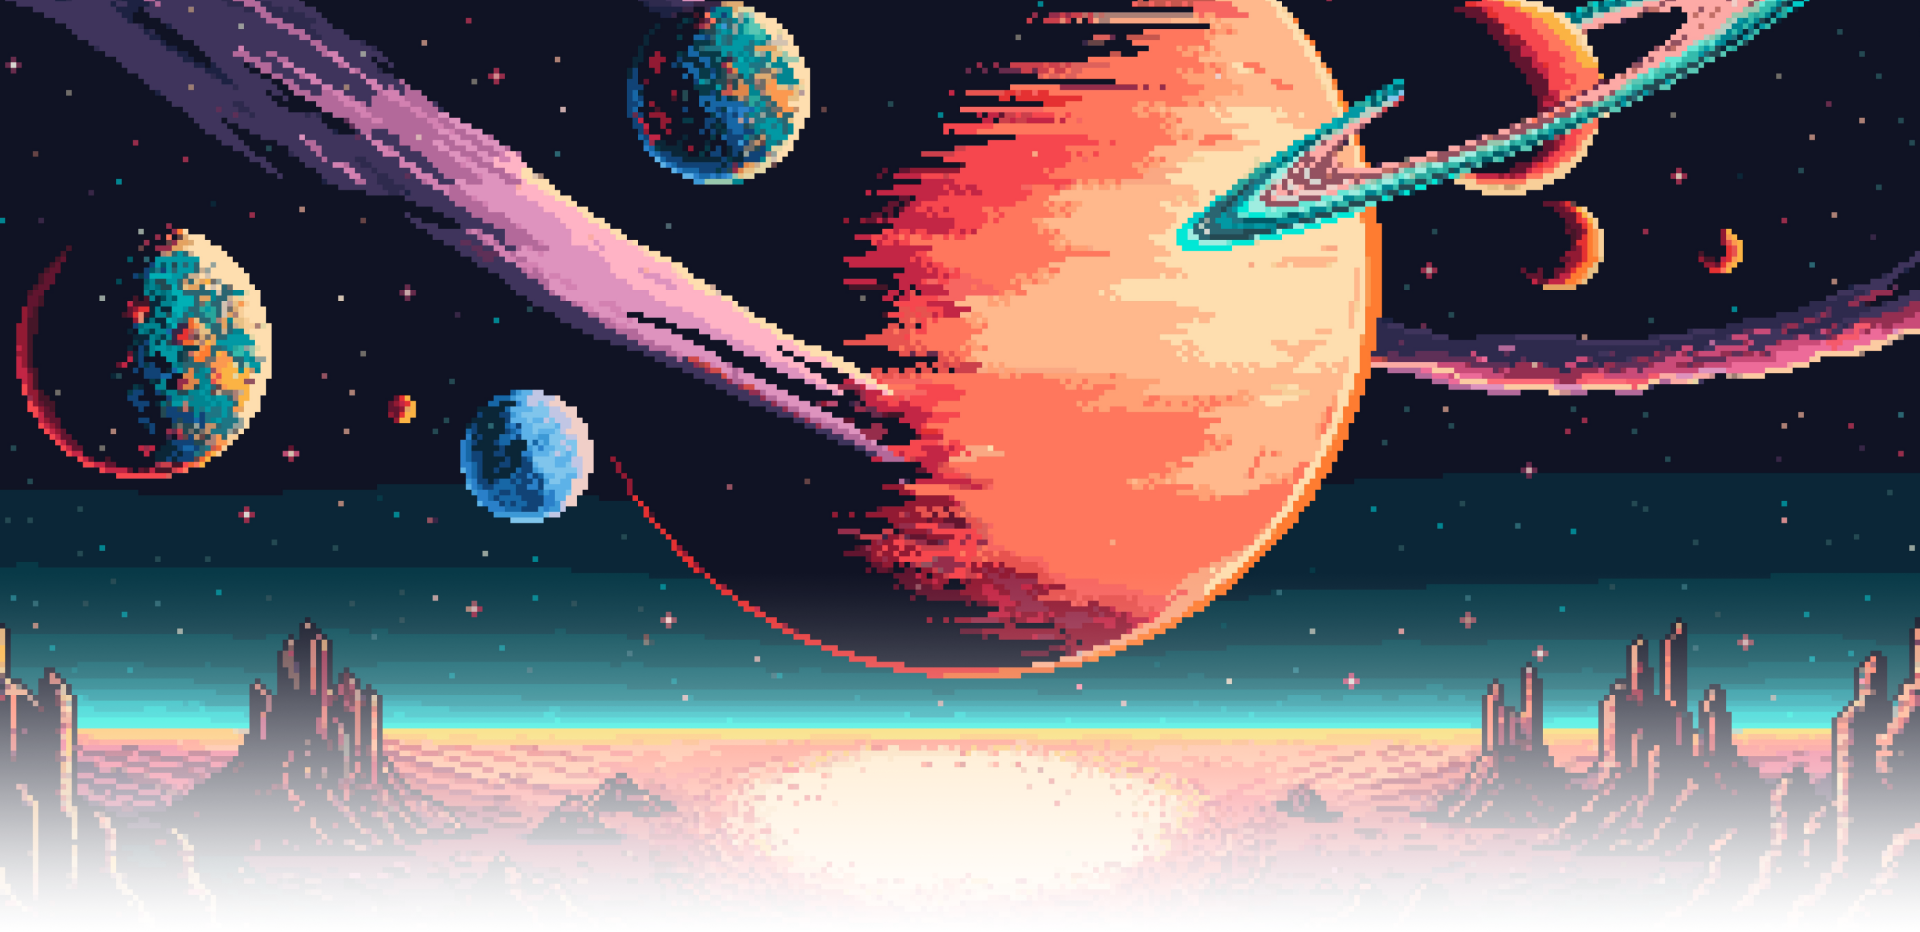
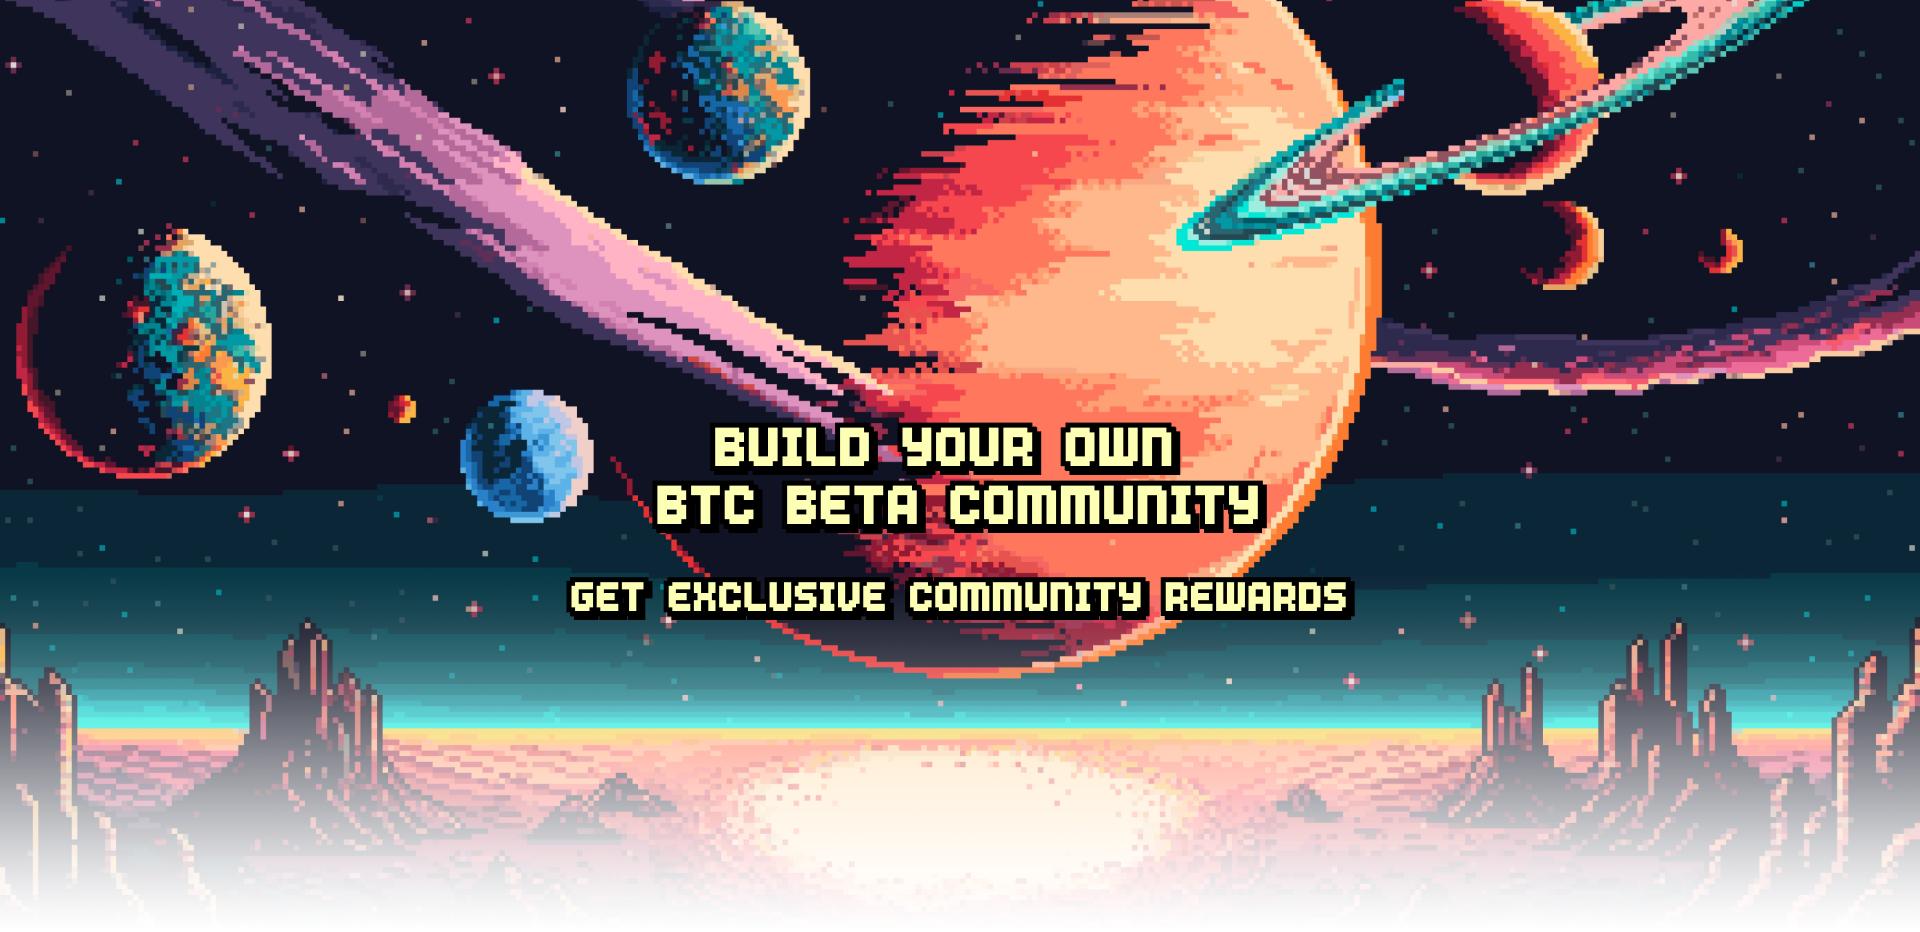
pref

Changed region(s): [[0.2812, 0.4356, 0.7188, 0.6845]]

diff --git a/src/views/BetaBunnies/Introduction/index.vue b/src/views/BetaBunnies/Introduction/index.vue
@@ -30,7 +30,7 @@ const launchTo = () => {
     background-size: 100% 100%;
     font-weight: bold;
     position: absolute;
-    @include -top(546rem, 30vw, 30vw);
+    @include -top(546rem, 35vw, 35vw);
     left: 50%;
     transform: translateX(-50%);
     height: 80rem;
